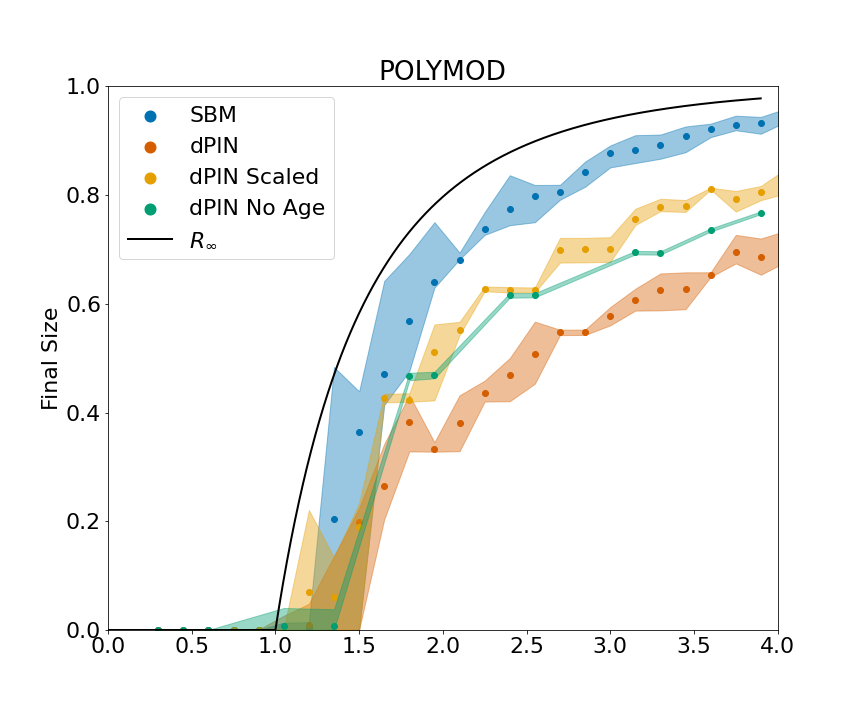
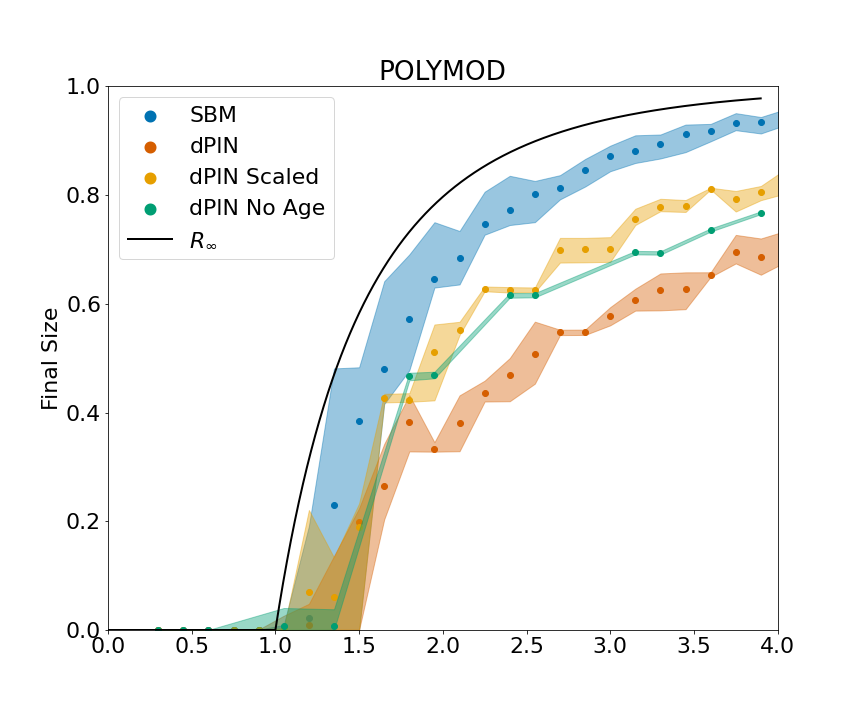
growth rate figs new

diff --git a/growth_rate_fig.py b/growth_rate_fig.py
@@ -30,8 +30,8 @@ top, step = 4, 0.1
 bins = np.arange(step, top + step, step)
 bin_centers = np.array([a/2 if i == 0 else a - (a - bins[i-1])/2 for i,a in enumerate(bins)])
 digit = [a for a in bins]; digit.append(1e6)
-t_0 = 0
-T_max = 7
+t_0 = 6
+T_max = 14
 max_gr, max_gr1 = 0, 0
 xs,ys = [], []
 for i, data in enumerate(datas):
@@ -46,7 +46,7 @@ for i, data in enumerate(datas):
         gr, gr1 = [], []
         r0s = []
         tau_res = []
-        for sim_num in range(8):
+        for sim_num in range(10):
             try:
                 with open(f'../output_data/simulations/big/sellke/growth_rate/{sim_num}_{data}_{model}.json','r') as f:
                     tmp = json.load(f)
@@ -82,6 +82,11 @@ for i, data in enumerate(datas):
                         taus = [[np.arange(0.21,0.31,0.01)],
                                 [np.arange(0.21,0.31,0.01)],
                                 [np.arange(0.21,0.31,0.01)]]
+                    if sim_num > 7:
+                        # 8,9
+                        taus = [[np.arange(0.01,0.31,0.01)],
+                                [np.arange(0.01,0.31,0.01)],
+                                [np.arange(0.01,0.31,0.01)]]
                     tmp_gr, tmp_gr1 = [], []
                     for T in range(t_0+1,T_max + 1):
                         Is = [[b for idx_t,b in enumerate(a) if t[idx_sim][idx_t] > t_0 and t[idx_sim][idx_t] < T] for idx_sim, a in enumerate(I)]
@@ -186,5 +191,5 @@ for i, data in enumerate(datas):
     # ax4.legend()
     # # fig3.show() 
 
-np.savetxt(f'../output_data/simulations/big/sellke/growth_rate/figures/xs_{data}_{model}.csv', xs)
-np.savetxt(f'../output_data/simulations/big/sellke/growth_rate/figures/ys_{data}_{model}.csv',ys)
+np.savetxt(f'../output_data/simulations/big/sellke/growth_rate/figures/xs_{data}_{model}_t0=6.csv', xs)
+np.savetxt(f'../output_data/simulations/big/sellke/growth_rate/figures/ys_{data}_{model}_t0=6.csv',ys)
